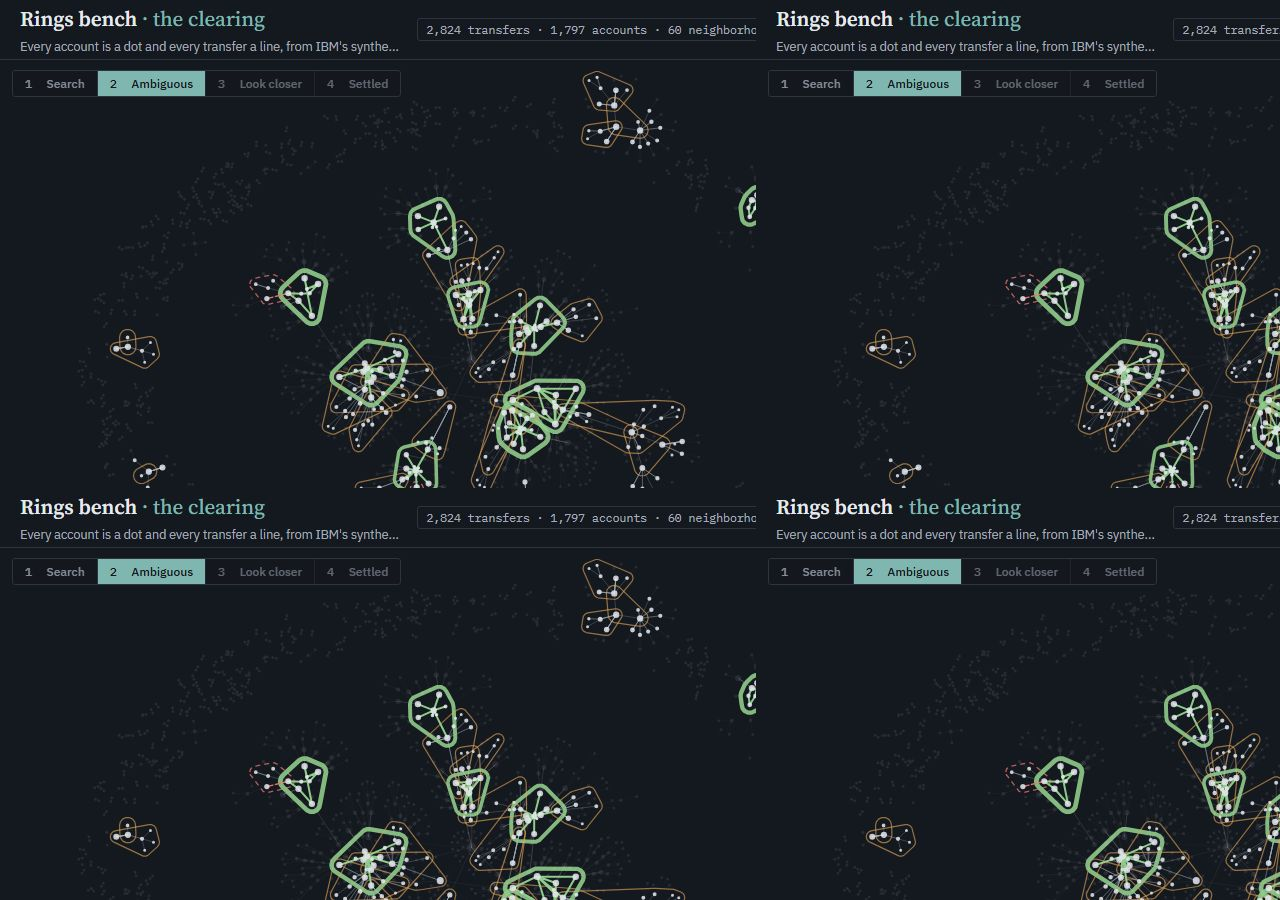
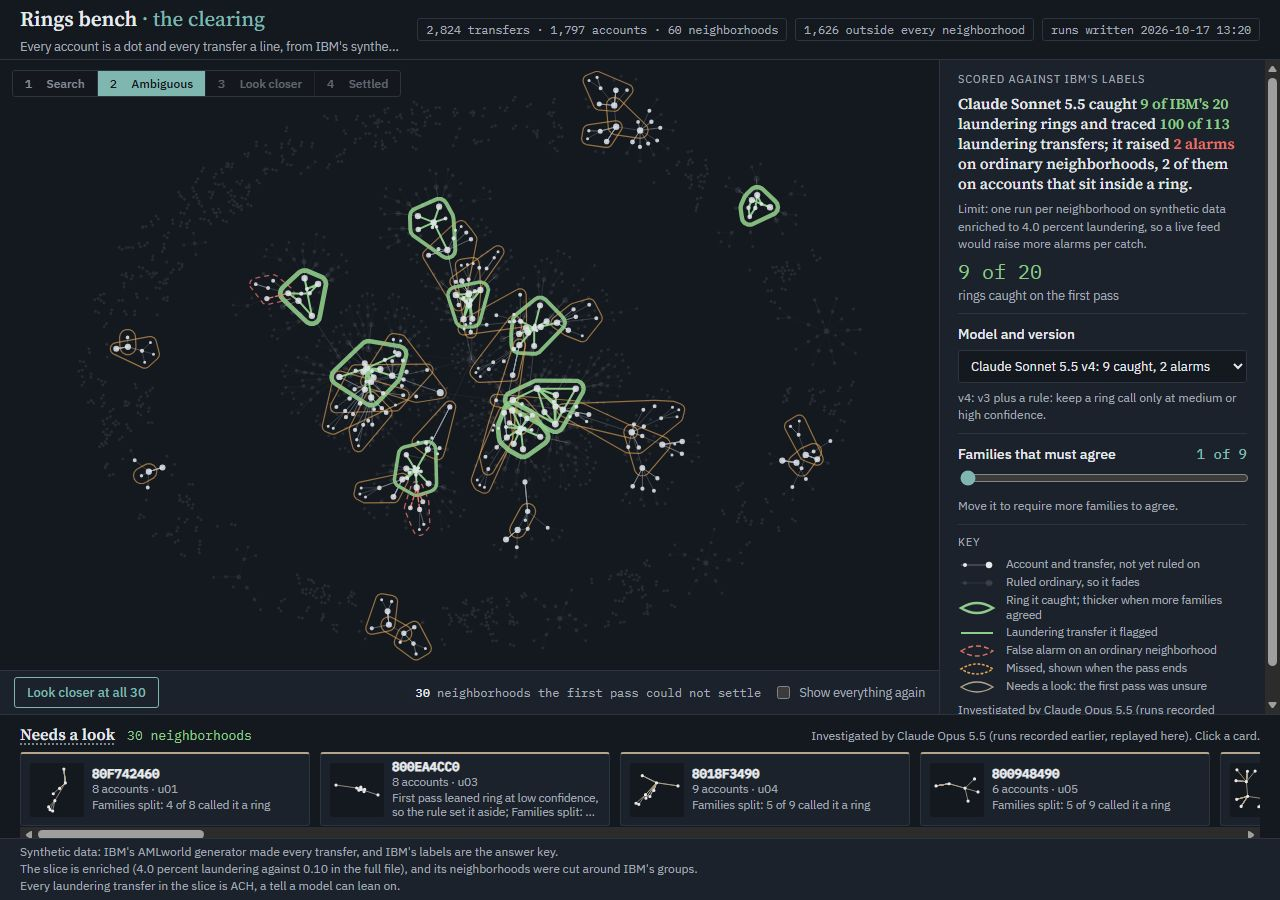
Look closer at all 30 as a lens moment; Before/After toggle with tally

diff --git a/rings_bench/ui/variants/clearing2d/clearing.js b/rings_bench/ui/variants/clearing2d/clearing.js
@@ -22,6 +22,7 @@ function seeded(seed) { let s = seed >>> 0; return () => (s = (s * 1664525 + 101
 
 /* timings, ms: each one is what the README lists */
 const HOLD = 700, FADE = 400, STEP = 60, DWELL = 150, CATCH_MS = 450, GAP = 250, REVEAL_MS = 600, ALARM_MS = 200;
+const HOP_MS = 220, HOLD_MS = 180, VERDICT_GAP = 200, SNAP_MS = 350, SHRINK_MS = 300, XFADE_MS = 250;
 const DIM = 0.08; const SWEEP_MS = 260, LOOK_MS = 300, LOOK_GAP = 50; /* a cleared account ends at 8 percent opacity */
 
 /* ---------- data, or a labeled SAMPLE ---------- */
@@ -106,7 +107,7 @@ const panelVer = v => PA.versions[v] ? v : PA.versions.v2 ? 'v2' : Object.keys(P
 function agreement(ver, unitId) { const pv = panelVer(ver); if (!pv) return null; const a = (PA.versions[pv].agreement || []).find(x => x.unit === unitId); return a ? Object.assign({ pv }, a) : null; }
 
 /* ---------- the sequence for one model: a timetable, then every frame is read off it ---------- */
-const ST = { stage: 0, missedAt: null, dial: 1, dialOn: false, sel: null, t: 0, END: 1, playing: false, showAll: false, hover: null, lastT: 0 };
+const ST = { before: false, lens: null, xfade: null, stage: 0, missedAt: null, dial: 1, dialOn: false, sel: null, t: 0, END: 1, playing: false, showAll: false, hover: null, lastT: 0 };
 let TL = null;
 /* the "Needs a look" tray: recorded for one first pass (Claude Sonnet 5.5 v4); the investigation verdicts are replayed from investigate.js */
 const TRAY_STUB = [{"unit":"u01","expected":"ordinary","shape":null,"first_pass_verdict":"ordinary","first_pass_confidence":"medium","ring_votes":4,"families":8,"reasons":["families split: 4 of 8 called it a ring"]},{"unit":"u03","expected":"ordinary","shape":null,"first_pass_verdict":"ring","first_pass_confidence":"low","ring_votes":6,"families":9,"reasons":["first pass called it a ring at low confidence","families split: 6 of 9 called it a ring"]},{"unit":"u04","expected":"ordinary","shape":null,"first_pass_verdict":"ordinary","first_pass_confidence":"medium","ring_votes":5,"families":9,"reasons":["families split: 5 of 9 called it a ring"]},{"unit":"u05","expected":"ordinary","shape":null,"first_pass_verdict":"ordinary","first_pass_confidence":"low","ring_votes":5,"families":9,"reasons":["families split: 5 of 9 called it a ring"]},{"unit":"u08","expected":"ring","shape":"chain","first_pass_verdict":"ordinary","first_pass_confidence":"medium","ring_votes":5,"families":8,"reasons":["families split: 5 of 8 called it a ring"]},{"unit":"u12","expected":"ordinary","shape":null,"first_pass_verdict":"ordinary","first_pass_confidence":"medium","ring_votes":3,"families":9,"reasons":["families split: 3 of 9 called it a ring"]},{"unit":"u13","expected":"ordinary","shape":null,"first_pass_verdict":"ring","first_pass_confidence":"low","ring_votes":8,"families":9,"reasons":["first pass called it a ring at low confidence"]},{"unit":"u14","expected":"ring","shape":"other","first_pass_verdict":"ordinary","first_pass_confidence":"medium","ring_votes":3,"families":8,"reasons":["families split: 3 of 8 called it a ring"]},{"unit":"u16","expected":"ordinary","shape":null,"first_pass_verdict":"ordinary","first_pass_confidence":"medium","ring_votes":3,"families":9,"reasons":["families split: 3 of 9 called it a ring"]},{"unit":"u17","expected":"ordinary","shape":null,"first_pass_verdict":"ordinary","first_pass_confidence":"low","ring_votes":5,"families":9,"reasons":["families split: 5 of 9 called it a ring"]},{"unit":"u18","expected":"ordinary","shape":null,"first_pass_verdict":"ordinary","first_pass_confidence":"low","ring_votes":3,"families":9,"reasons":["families split: 3 of 9 called it a ring"]},{"unit":"u19","expected":"ring","shape":"lone","first_pass_verdict":"ring","first_pass_confidence":"low","ring_votes":3,"families":9,"reasons":["first pass called it a ring at low confidence","families split: 3 of 9 called it a ring"]},{"unit":"u20","expected":"ring","shape":"lone","first_pass_verdict":"ordinary","first_pass_confidence":"low","ring_votes":6,"families":9,"reasons":["families split: 6 of 9 called it a ring"]},{"unit":"u21","expected":"ordinary","shape":null,"first_pass_verdict":"ordinary","first_pass_confidence":"medium","ring_votes":4,"families":9,"reasons":["families split: 4 of 9 called it a ring"]},{"unit":"u23","expected":"ordinary","shape":null,"first_pass_verdict":"ordinary","first_pass_confidence":"medium","ring_votes":3,"families":9,"reasons":["families split: 3 of 9 called it a ring"]},{"unit":"u24","expected":"ordinary","shape":null,"first_pass_verdict":"ordinary","first_pass_confidence":"medium","ring_votes":3,"families":9,"reasons":["families split: 3 of 9 called it a ring"]},{"unit":"u25","expected":"ordinary","shape":null,"first_pass_verdict":"ordinary","first_pass_confidence":"low","ring_votes":4,"families":9,"reasons":["families split: 4 of 9 called it a ring"]},{"unit":"u28","expected":"ring","shape":"lone","first_pass_verdict":"ordinary","first_pass_confidence":"low","ring_votes":6,"families":9,"reasons":["families split: 6 of 9 called it a ring"]},{"unit":"u33","expected":"ring","shape":"chain","first_pass_verdict":"ordinary","first_pass_confidence":"low","ring_votes":5,"families":9,"reasons":["families split: 5 of 9 called it a ring"]},{"unit":"u36","expected":"ordinary","shape":null,"first_pass_verdict":"ordinary","first_pass_confidence":"low","ring_votes":5,"families":8,"reasons":["families split: 5 of 8 called it a ring"]},{"unit":"u37","expected":"ring","shape":"lone","first_pass_verdict":"ordinary","first_pass_confidence":"low","ring_votes":6,"families":9,"reasons":["families split: 6 of 9 called it a ring"]},{"unit":"u38","expected":"ordinary","shape":null,"first_pass_verdict":"ordinary","first_pass_confidence":"medium","ring_votes":3,"families":8,"reasons":["families split: 3 of 8 called it a ring"]},{"unit":"u40","expected":"ordinary","shape":null,"first_pass_verdict":"ordinary","first_pass_confidence":"medium","ring_votes":5,"families":9,"reasons":["families split: 5 of 9 called it a ring"]},{"unit":"u41","expected":"ordinary","shape":null,"first_pass_verdict":"ring","first_pass_confidence":"low","ring_votes":5,"families":9,"reasons":["first pass called it a ring at low confidence","families split: 5 of 9 called it a ring"]},{"unit":"u45","expected":"ordinary","shape":null,"first_pass_verdict":"ordinary","first_pass_confidence":"medium","ring_votes":3,"families":9,"reasons":["families split: 3 of 9 called it a ring"]},{"unit":"u52","expected":"ordinary","shape":null,"first_pass_verdict":"ordinary","first_pass_confidence":"medium","ring_votes":5,"families":9,"reasons":["families split: 5 of 9 called it a ring"]},{"unit":"u54","expected":"ordinary","shape":null,"first_pass_verdict":"ordinary","first_pass_confidence":"medium","ring_votes":5,"families":9,"reasons":["families split: 5 of 9 called it a ring"]},{"unit":"u55","expected":"ordinary","shape":null,"first_pass_verdict":"ordinary","first_pass_confidence":"low","ring_votes":4,"families":9,"reasons":["families split: 4 of 9 called it a ring"]},{"unit":"u58","expected":"ordinary","shape":null,"first_pass_verdict":"ordinary","first_pass_confidence":"low","ring_votes":6,"families":9,"reasons":["families split: 6 of 9 called it a ring"]},{"unit":"u59","expected":"ordinary","shape":null,"first_pass_verdict":"ordinary","first_pass_confidence":"medium","ring_votes":3,"families":9,"reasons":["families split: 3 of 9 called it a ring"]}];
@@ -118,7 +119,7 @@ const trayApplies = S => !!S && /claude-sonnet-5-5$/.test(S.id) && S.ver === 'v4
 const INV = {}; /* unit -> { start, land } in wall-clock ms; the verdict is INVD.results[unit] */
 const INVESTIGATE_MS = 1200;
 const invRes = id => INVD && INVD.results ? INVD.results[id] || null : null;
-const landed = (id, now) => INV[id] && now >= INV[id].land;
+const landed = (id, now) => !ST.before && INV[id] && now >= INV[id].land;
 function buildTimeline(S) {
   const read = [], status = []; let t = HOLD + FADE; const useTray = trayApplies(S);
   UNITS.forEach((u, k) => {
@@ -169,7 +170,9 @@ function fit() {
   UNITS.forEach((u, k) => {
     const ns = u.ring != null && RINGS[u.ring] ? RINGS[u.ring].nodes : u.accounts; if (!ns.length) return;
     const hullP = padHull(ns, u.ring != null ? 8 : 6);
-    GROUPS.push({ k, u, ring: u.ring, ns, hull: hullP, area: polyArea(hullP) });
+    let cx = 0, cy = 0; ns.forEach(v => { cx += nodes[v].sx; cy += nodes[v].sy; }); cx /= ns.length; cy /= ns.length;
+    let rad = 0; hullP.forEach(q => { rad = Math.max(rad, Math.hypot(q[0] - cx, q[1] - cy)); });
+    GROUPS.push({ k, u, ring: u.ring, ns, hull: hullP, area: polyArea(hullP), cx, cy, rad });
   });
 }
 function hull(pts) {
@@ -191,7 +194,7 @@ const nodeA = new Float32Array(nodes.length); const LIT = new Float32Array(TR.le
 function draw() {
   const t = ST.t, T = TL, all = ST.showAll; const now = performance.now();
   /* a tray neighborhood lets its traffic fade only once the investigation clears it; a ring verdict holds it lit */
-  const invRel = id => { if (!landed(id, now)) return Infinity; const r = invRes(id); if (!r) return Infinity; if (r.verdict === 'ring') return truthy(r.ring_found) ? INV[id].land + CATCH_MS : Infinity; return INV[id].land; };
+  const invRel = id => { if (!landed(id, now)) return Infinity; const r = invRes(id); if (!r) return Infinity; if (r.verdict === 'ring') return truthy(r.ring_found) ? INV[id].land + SNAP_MS : Infinity; return INV[id].land; };
   ctx.setTransform(G.dpr, 0, 0, G.dpr, 0, 0); ctx.fillStyle = C.ground; ctx.fillRect(0, 0, G.W, G.H);
   if (!T) return;
   nodeA.fill(0);
@@ -204,14 +207,14 @@ function draw() {
     if (T.lookOf[i]) {
       const d0 = T.dimNoLook[i]; const litT = t < d0 ? 1 : 1 - ease((t - d0) / FADE);
       let rel = -Infinity; T.lookOf[i].forEach(k => { rel = Math.max(rel, invRel(UNITS[k].id)); });
-      const litL = isFinite(rel) ? 1 - ease((now - rel) / FADE) : 1; lit = Math.max(litT, litL);
+      const litL = isFinite(rel) ? 1 - ease((now - rel) / SHRINK_MS) : 1; lit = Math.max(litT, litL);
       T.lookOf[i].forEach(k => { const id = UNITS[k].id; const r = invRes(id); if (!r || !landed(id, now)) return; const fl = listOf(r.flagged_in_unit);
         if (x.label && UNITS[k].ring === x.ring) { s = truthy(r.ring_found) && fl.includes(x.id) ? 'ok' : 'miss'; sT = INV[id].land; wall = true; }
         else if (!x.label && r.verdict === 'ring' && UNITS[k].expected !== 'ring' && fl.includes(x.id)) { s = 'bad'; sT = INV[id].land; wall = true; } });
     }
     if (all) lit = 1; LIT[i] = lit;
     let sa = 0; const tt = wall ? now : t;
-    if (wall) { if (s === 'ok') sa = tt >= sT + CATCH_MS ? 1 : 0; else sa = s === 'miss' ? (ST.missedAt != null ? ease((now - Math.max(sT, ST.missedAt)) / REVEAL_MS) : 0) : ease((tt - sT) / ALARM_MS); }
+    if (wall) { if (s === 'ok') sa = tt >= sT + SNAP_MS ? 1 : 0; else sa = s === 'miss' ? (ST.missedAt != null ? ease((now - Math.max(sT, ST.missedAt)) / REVEAL_MS) : 0) : ease((tt - sT) / ALARM_MS); }
     else
     if (s && sT === Infinity) sa = ST.missedAt != null ? ease((now - ST.missedAt) / REVEAL_MS) : 0;
     else if (s && t >= sT) sa = s === 'miss' ? ease((t - sT) / REVEAL_MS) : s === 'bad' ? ease((t - sT) / ALARM_MS) : 1;
@@ -232,15 +235,16 @@ function draw() {
     if (st === 'look') {
       const id = g.u.id; const r = invRes(id);
       if (r && landed(id, now)) {
-        const p = clamp01((now - INV[id].land) / CATCH_MS);
-        if (r.verdict === 'ring' && truthy(r.ring_found)) { const e = all ? 1 : easeOut(p); pathPoly(g.hull); ctx.setLineDash([]); ctx.strokeStyle = C.ok; ctx.globalAlpha = 0.25 + 0.65 * e; ctx.lineWidth = wOf(votes) + 3 * (1 - e); ctx.stroke(); }
+        const p = clamp01((now - INV[id].land) / SNAP_MS);
+        if (r.verdict === 'ring' && truthy(r.ring_found)) { const e = all ? 1 : easeOut(p); pathPoly(g.hull); ctx.setLineDash([]); ctx.strokeStyle = C.ok; ctx.globalAlpha = 0.25 + 0.65 * e; ctx.lineWidth = wOf(votes) + 3 * (1 - e); ctx.stroke();
+          if (!all && p < 1) { ctx.strokeStyle = C.ink; ctx.globalAlpha = 0.9 * (1 - p); ctx.lineWidth = wOf(votes) + 4 * (1 - p); ctx.stroke(); } /* the snap: a brief bright flash as the outline closes */ }
         else if (r.verdict === 'ring' && g.ring == null) { pathPoly(g.hull); ctx.setLineDash([5, 4]); ctx.strokeStyle = C.bad; ctx.globalAlpha = 0.8 * ease(p); ctx.lineWidth = 1.3; ctx.stroke(); }
-        else if (g.ring != null) { const m = all ? 1 : ST.missedAt != null ? ease((now - Math.max(INV[id].land, ST.missedAt)) / REVEAL_MS) : 0; if (m > 0) { pathPoly(g.hull); ctx.setLineDash([1.5, 3.5]); ctx.lineCap = 'round'; ctx.strokeStyle = C.warn; ctx.globalAlpha = 0.9 * m; ctx.lineWidth = 1.5; ctx.stroke(); ctx.lineCap = 'butt'; } }
-        else { pathPoly(g.hull); ctx.setLineDash([]); ctx.strokeStyle = C.look; ctx.globalAlpha = 0.85 * (1 - ease(p)); ctx.lineWidth = 1.4; ctx.stroke(); }
+        else if (g.ring != null) { shrinkOut(g, id, now); const m = all ? 1 : ST.missedAt != null ? ease((now - Math.max(INV[id].land, ST.missedAt)) / REVEAL_MS) : 0; if (m > 0) { pathPoly(g.hull); ctx.setLineDash([1.5, 3.5]); ctx.lineCap = 'round'; ctx.strokeStyle = C.warn; ctx.globalAlpha = 0.9 * m; ctx.lineWidth = 1.5; ctx.stroke(); ctx.lineCap = 'butt'; } }
+        else shrinkOut(g, id, now);
         return;
       }
       const p = all ? 1 : ease((t - rd) / ALARM_MS); if (p <= 0) return;
-      pathPoly(g.hull); ctx.setLineDash([]); const pulse = ST.stage === 2 && !reduced() ? 0.55 + 0.45 * Math.sin(now / 520) : 0; ctx.strokeStyle = pulse ? C.warn : C.look; ctx.globalAlpha = (INV[id] ? 1 : 0.6 + 0.35 * pulse) * p; ctx.lineWidth = INV[id] ? 2 : 1.1 + 0.9 * pulse; ctx.stroke();
+      pathPoly(g.hull); ctx.setLineDash([]); const pulse = (ST.stage === 2 || ST.before) && !reduced() ? 0.55 + 0.45 * Math.sin(now / 520) : 0; ctx.strokeStyle = pulse ? C.warn : C.look; const busy = INV[id] && !ST.before; ctx.globalAlpha = (busy ? 1 : 0.6 + 0.35 * pulse) * p; ctx.lineWidth = busy ? 2 : 1.1 + 0.9 * pulse; ctx.stroke();
     } else if (g.ring != null && st === 'caught') {
       const p = all ? 1 : clamp01((t - rd) / CATCH_MS); if (p <= 0) return;
       const e = easeOut(p); pathPoly(g.hull); ctx.setLineDash([]); ctx.strokeStyle = C.ok; ctx.globalAlpha = 0.25 + 0.65 * e; ctx.lineWidth = wOf(votes) + 3 * (1 - e); ctx.stroke();
@@ -270,7 +274,7 @@ function draw() {
   });
   /* an investigation that lands on a ring traces it the same way, on the wall clock */
   Object.keys(INV).forEach(id => { const r = invRes(id); const k = UNITS.findIndex(u => u.id === id); if (!r || k < 0 || !truthy(r.ring_found) || all) return;
-    const p = (now - INV[id].land) / CATCH_MS; if (p < 0 || p >= 1) return; const q = easeOut(p); const fl = listOf(r.flagged_in_unit); const ring = UNITS[k].ring; if (ring == null) return;
+    if (ST.before) return; const p = (now - INV[id].land) / SNAP_MS; if (p < 0 || p >= 1) return; const q = easeOut(p); const fl = listOf(r.flagged_in_unit); const ring = UNITS[k].ring; if (ring == null) return;
     ctx.beginPath(); RINGS[ring].ids.forEach(tid => { const x = BYID[tid]; if (x.u === x.v || !fl.includes(tid)) return; const a = nodes[x.u], b = nodes[x.v]; ctx.moveTo(a.sx, a.sy); ctx.lineTo(a.sx + (b.sx - a.sx) * q, a.sy + (b.sy - a.sy) * q); }); ctx.stroke();
     RINGS[ring].nodes.forEach(v => { nodeA[v] = 1; }); });
   ctx.lineCap = 'butt'; ctx.globalAlpha = 1;
@@ -280,7 +284,28 @@ function draw() {
   ctx.fillStyle = C.ink; nb.forEach((L, a) => { ctx.globalAlpha = a * 0.85; ctx.beginPath(); L.forEach(i => { const n = nodes[i]; ctx.moveTo(n.sx + n.r, n.sy); ctx.arc(n.sx, n.sy, n.r, 0, Math.PI * 2); }); ctx.fill(); });
   ctx.globalAlpha = 1;
 
+  const L = lensAt(now);
+  if (L) { ctx.beginPath(); ctx.arc(L.x, L.y, L.r, 0, Math.PI * 2); ctx.fillStyle = C.ink; ctx.globalAlpha = 0.07 * L.a; ctx.fill(); ctx.strokeStyle = C.accent; ctx.globalAlpha = 0.9 * L.a; ctx.lineWidth = 1.2; ctx.setLineDash([]); ctx.stroke(); ctx.globalAlpha = 1; }
+  if (ST.xfade) { const p = (now - ST.xfade.t0) / XFADE_MS; if (p >= 1) ST.xfade = null; else { ctx.globalAlpha = 1 - ease(p); ctx.drawImage(ST.xfade.img, 0, 0, G.W, G.H); ctx.globalAlpha = 1; } }
   if (ST.hover) { pathPoly(ST.hover.hull); ctx.strokeStyle = C.ink; ctx.globalAlpha = 0.9; ctx.lineWidth = 1; ctx.setLineDash([]); ctx.stroke(); ctx.globalAlpha = 1; }
+}
+
+/* a cleared neighborhood: its outline shrinks inward as it fades */
+function shrinkOut(g, id, now) {
+  const p = clamp01((now - INV[id].land) / SHRINK_MS); if (p >= 1) return; const e = easeOut(p); const k = 1 - 0.45 * e;
+  ctx.save(); ctx.translate(g.cx, g.cy); ctx.scale(k, k); ctx.translate(-g.cx, -g.cy); pathPoly(g.hull); ctx.restore();
+  ctx.setLineDash([]); ctx.strokeStyle = C.look; ctx.globalAlpha = 0.9 * (1 - e); ctx.lineWidth = 1.6; ctx.stroke();
+}
+/* the lens: a soft circle that glides from one tray neighborhood to the next */
+function lensAt(now) {
+  const L = ST.lens; if (!L || ST.before) return null;
+  const p = ease((now - L.t0) / HOP_MS); const a = L.out != null ? 1 - clamp01((now - L.out) / 250) : 1; if (a <= 0) { ST.lens = null; return null; }
+  return { x: L.x0 + (L.x1 - L.x0) * p, y: L.y0 + (L.y1 - L.y0) * p, r: L.r0 + (L.r1 - L.r0) * p, a };
+}
+function moveLens(k) {
+  const g = GROUPS.find(gg => gg.k === k); if (!g) return; const now = performance.now(); const c = lensAt(now);
+  const r1 = Math.max(16, Math.min(g.rad + 8, 160));
+  ST.lens = c ? { x0: c.x, y0: c.y, r0: c.r, x1: g.cx, y1: g.cy, r1, t0: now } : { x0: g.cx, y0: g.cy, r0: r1 * 1.4, x1: g.cx, y1: g.cy, r1, t0: now };
 }
 
 /* ---------- the four stages: Search, Ambiguous, Look closer, Settled; the button always names the next one ---------- */
@@ -291,7 +316,7 @@ function setT(t, fromPlay) {
   ST.t = Math.max(0, Math.min(ST.END, t)); timeEl.value = Math.round(ST.t / ST.END * 1000);
   renderClock(); syncTray(fromPlay); draw();
 }
-function pulseLoop() { pulseRaf = 0; if (ST.stage !== 2 || reduced()) return; draw(); pulseRaf = requestAnimationFrame(pulseLoop); }
+function pulseLoop() { pulseRaf = 0; if ((ST.stage !== 2 && !ST.before) || reduced()) return; draw(); pulseRaf = requestAnimationFrame(pulseLoop); }
 function setStage(n) {
   ST.stage = n; timeEl.style.visibility = n >= 2 ? 'hidden' : '';
   document.querySelectorAll('#stages li').forEach((li, i) => { li.classList.toggle('on', i + 1 === n); li.classList.toggle('done', i + 1 < n); });
@@ -302,7 +327,7 @@ function renderButton() {
   const n = ST.stage; playBtn.disabled = false;
   if (n === 0) playBtn.textContent = 'Start the search';
   else if (n === 1) playBtn.textContent = ST.playing ? 'Skip to the end of the search' : 'Continue the search';
-  else if (n === 2) { playBtn.textContent = 'Look closer'; playBtn.disabled = !trayApplies(ST.sel) || !CARDS.size; }
+  else if (n === 2) { playBtn.textContent = 'Look closer at all ' + CARDS.size; playBtn.disabled = !trayApplies(ST.sel) || !CARDS.size; }
   else if (n === 3) { playBtn.textContent = trayDone() ? 'Settle' : 'Investigating...'; playBtn.disabled = !trayDone(); }
   else playBtn.textContent = ST.missedAt == null ? 'Show what was missed' : 'Start over';
 }
@@ -315,7 +340,7 @@ function startSearch() {
   if (reduced()) { setT(ST.END); stopPlay(); setStage(2); return; }
   ST.playing = true; last = performance.now(); renderButton(); raf = requestAnimationFrame(tick);
 }
-function resetLater() { lookRun++; Object.keys(INV).forEach(k => delete INV[k]); ST.missedAt = null; CARDS.forEach((el, k) => cardState(el, k)); }
+function resetLater() { setView(false, true); ST.lens = null; lookRun++; Object.keys(INV).forEach(k => delete INV[k]); ST.missedAt = null; CARDS.forEach((el, k) => cardState(el, k)); }
 function showMissed() { ST.missedAt = performance.now(); CARDS.forEach((el, k) => cardState(el, k)); animate(REVEAL_MS + 100); renderButton(); renderClock(); }
 playBtn.addEventListener('click', () => {
   const n = ST.stage;
@@ -334,7 +359,7 @@ function jumpTo(n) {
   setT(ST.END); const past = performance.now() - 10000;
   CARDS.forEach((el, k) => { INV[UNITS[k].id] = { start: past, land: past }; });
   ST.missedAt = n >= 4 ? past : null; CARDS.forEach((el, k) => cardState(el, k)); renderTrayHead();
-  setStage(n >= 4 ? 4 : 3); if (n === 3) { ST.stage = 3; renderButton(); }
+  setStage(n >= 4 ? 4 : 3); if (n === 3) { ST.stage = 3; renderButton(); } renderTrayHead();
 }
 document.querySelectorAll('#stages li').forEach((li, i) => { li.addEventListener('click', () => jumpTo(i + 1)); li.addEventListener('keydown', e => { if (e.key === 'Enter' || e.key === ' ') { e.preventDefault(); jumpTo(i + 1); } }); });
 timeEl.addEventListener('input', () => { stopPlay(); if (ST.stage !== 1) { resetLater(); setStage(1); } setT(+timeEl.value / 1000 * ST.END); if (ST.t >= ST.END) setStage(2); });
@@ -346,6 +371,7 @@ function renderClock() {
   let html;
   if (ST.stage === 0) html = 'The whole slice, lit · <b>' + UNITS.length + '</b> neighborhoods to read';
   else if (ST.stage === 1) html = (ST.t < HOLD + FADE ? 'Transfers outside the neighborhoods step back' : 'Reading ' + esc((UNITS[Math.max(0, readN - 1)] || {}).id)) + ' · read <b>' + readN + ' of ' + UNITS.length + '</b>';
+  else if (ST.before) html = '<b>Before</b> · <b>' + lookN + '</b> neighborhoods the first pass could not settle';
   else if (ST.stage === 2) html = trayApplies(ST.sel) ? '<b>' + lookN + '</b> neighborhoods the first pass could not settle' : 'The tray is recorded for Claude Sonnet 5.5 v4 only';
   else if (ST.stage === 3) html = 'Investigated <b>' + inv + ' of ' + lookN + '</b>';
   else html = closingLine();
@@ -404,7 +430,7 @@ function fly(k, card) {
 }
 function reasonLine(x) { return (x.reasons || []).map(r => sentence(noDash(r))).join('; '); }
 function cardState(el, k) {
-  const u = UNITS[k]; const x = TRAY_OF[u.id]; const now = performance.now(); const r = invRes(u.id); const inv = INV[u.id];
+  const u = UNITS[k]; const x = TRAY_OF[u.id]; const now = performance.now(); const r = invRes(u.id); const inv = ST.before ? null : INV[u.id];
   const head = el.querySelector('h3'), body = el.querySelector('.why');
   el.classList.remove('busy', 'ring', 'cleared', 'alarm', 'missed');
   if (!inv) { head.innerHTML = '<span class="mono">' + esc(u.seed || u.id) + '</span>'; body.textContent = reasonLine(x); body.title = body.textContent; return; }
@@ -420,23 +446,26 @@ function cardState(el, k) {
 let animUntil = 0, animRaf = 0;
 function animate(ms) { animUntil = Math.max(animUntil, performance.now() + ms); if (!animRaf) animRaf = requestAnimationFrame(animStep); }
 function animStep() { animRaf = 0; draw(); renderClock(); if (performance.now() < animUntil) animRaf = requestAnimationFrame(animStep); }
-function investigate(k, ms) {
+function investigate(k, ms, lens) {
   const id = UNITS[k].id; if (INV[id]) return Promise.resolve();
+  if (lens && !reduced()) moveLens(k);
   const busy = reduced() ? 1 : ms || INVESTIGATE_MS; const start = performance.now();
   if (ST.stage < 3) setStage(3);
   INV[id] = { start, land: start + busy }; const el = CARDS.get(k); if (el) { el.style.setProperty('--sweep', busy + 'ms'); cardState(el, k); el.scrollIntoView({ block: 'nearest', inline: 'nearest' }); }
-  animate(busy + Math.max(CATCH_MS, FADE, REVEAL_MS) + 100);
+  animate(busy + Math.max(SNAP_MS, SHRINK_MS, REVEAL_MS) + 100);
   return new Promise(res => setTimeout(() => { const e = CARDS.get(k); if (e) cardState(e, k); renderTrayHead(); draw(); renderClock(); checkSettled(); setTimeout(() => { draw(); renderClock(); }, Math.max(CATCH_MS, FADE, REVEAL_MS) + 40); res(); }, busy + 10));
 }
 let lookRun = 0;
 async function lookCloser() {
   const run = ++lookRun; setStage(3);
   const ks = [...CARDS.keys()].sort((x, y) => x - y).filter(k => !INV[UNITS[k].id]);
-  for (let i = 0; i < ks.length; i++) { if (run !== lookRun) return; if (i) await new Promise(r => setTimeout(r, LOOK_GAP)); if (CARDS.has(ks[i])) await investigate(ks[i], LOOK_MS); }
+  if (reduced()) { jumpTo(4); return; }
+  for (let i = 0; i < ks.length; i++) { if (run !== lookRun) return; if (i) await new Promise(r => setTimeout(r, VERDICT_GAP)); if (CARDS.has(ks[i])) await investigate(ks[i], HOP_MS + HOLD_MS, true); }
+  if (ST.lens) { ST.lens.out = performance.now(); animate(300); }
   checkSettled();
 }
 function trayDone() { const ks = [...CARDS.keys()]; return ks.length > 0 && ks.every(k => landed(UNITS[k].id, performance.now())); }
-function checkSettled() { if (ST.stage === 3 && trayDone()) setStage(4); }
+function checkSettled() { if (ST.stage === 3 && trayDone()) { setStage(4); renderTrayHead(); } }
 function buildCard(k, pending) {
   const u = UNITS[k]; const x = TRAY_OF[u.id];
   const el = document.createElement('article'); el.className = 'card' + (pending ? ' pending' : ''); el.dataset.k = k; el.tabIndex = 0; el.setAttribute('role', 'button');
@@ -449,6 +478,27 @@ function buildCard(k, pending) {
   el.addEventListener('mouseleave', () => { ST.hover = null; draw(); });
   return el;
 }
+/* before and after the investigator: one toggle above the tray, one tally line from the data */
+const BA = document.createElement('div'); BA.className = 'ba'; BA.hidden = true;
+BA.innerHTML = '<div class="seg" role="group" aria-label="Before or after the investigator"><button type="button" data-v="before">Before</button><button type="button" data-v="after" class="on">After</button></div><span class="tally"></span>';
+document.querySelector('.rhead').append(BA);
+BA.querySelectorAll('button').forEach(b => b.addEventListener('click', () => setView(b.dataset.v === 'before')));
+function setView(before, silent) {
+  if (ST.before === before) return;
+  if (!silent && !reduced()) { const img = document.createElement('canvas'); img.width = cv.width; img.height = cv.height; img.getContext('2d').drawImage(cv, 0, 0); ST.xfade = { img, t0: performance.now() }; }
+  ST.before = before;
+  if (before) { ST.savedMissed = ST.missedAt; ST.missedAt = null; } else if (ST.savedMissed !== undefined) { ST.missedAt = ST.savedMissed; ST.savedMissed = undefined; }
+  BA.querySelectorAll('button').forEach(b => { const on = (b.dataset.v === 'before') === before; b.classList.toggle('on', on); b.setAttribute('aria-pressed', on); });
+  CARDS.forEach((el, k) => cardState(el, k)); renderClock();
+  if (before && !pulseRaf) pulseRaf = requestAnimationFrame(pulseLoop);
+  if (!silent) { animate(XFADE_MS + 40); renderTrayHead(); }
+}
+function tallyLine() {
+  const s = ST.sel; const R = TRAY.map(x => Object.assign({ expected: x.expected }, (INVD && INVD.results && INVD.results[x.unit]) || {}));
+  const cl = R.filter(r => r.verdict === 'ordinary' && r.expected !== 'ring').length, found = R.filter(r => truthy(r.ring_found)).length, fa = R.filter(r => r.verdict === 'ring' && r.expected !== 'ring').length;
+  const trayMiss = R.filter(r => r.expected === 'ring' && !truthy(r.ring_found)).length; const after = s.k + found;
+  return 'Before: ' + s.k + ' rings caught, ' + R.length + ' neighborhoods unsettled. After: ' + after + ' rings caught, ' + cl + ' cleared, ' + fa + ' false ' + (fa === 1 ? 'alarm' : 'alarms') + ' from the investigator, ' + (NR - after) + ' rings still missed (' + trayMiss + ' of them in the tray).';
+}
 function renderTrayHead() {
   const n = CARDS.size, done = [...CARDS.keys()].filter(k => landed(UNITS[k].id, performance.now())).length;
   $('#rcount').textContent = trayApplies(ST.sel) ? n + (n === 1 ? ' neighborhood' : ' neighborhoods') + (done ? ' · ' + done + ' investigated' : '') : '';
@@ -460,6 +510,9 @@ function renderTrayHead() {
     const cl = R.filter(r => r.verdict === 'ordinary' && r.expected !== 'ring').length, found = R.filter(r => truthy(r.ring_found)).length, fa = R.filter(r => r.verdict === 'ring' && r.expected !== 'ring').length;
     note = 'Investigator: ' + R.length + ' looked at, ' + cl + ' cleared, ' + found + (found === 1 ? ' ring' : ' rings') + ' found, ' + fa + (fa === 1 ? ' false alarm' : ' false alarms');
   } else note = 'Investigated by ' + INV_MODEL + ' (runs recorded earlier, replayed here). Click a card.';
+  const showBA = ST.stage === 4 && trayApplies(ST.sel) && !!INVD && (ST.before || trayDone());
+  BA.hidden = !showBA; $('#rnote').hidden = showBA; $('#rcount').hidden = showBA;
+  if (showBA) { const tl = BA.querySelector('.tally'); tl.textContent = tallyLine(); tl.title = tl.textContent; }
   $('#rnote').textContent = note;
 }
 function syncTray(live) {
@@ -572,6 +625,8 @@ function init() {
   ST.t = 0; ST.stage = 0; select(pick.id, pick.version);
   if (q.get('stage') != null) jumpTo(Math.max(0, Math.min(4, +q.get('stage') || 0)));
   else if (q.get('t') != null) { setStage(1); setT(clamp01(+q.get('t')) * ST.END); if (ST.t >= ST.END) setStage(2); }
+  if (q.get('missed') === '0' && ST.stage === 4) { ST.missedAt = null; CARDS.forEach((el, k) => cardState(el, k)); renderButton(); renderClock(); draw(); }
+  if (q.get('view') === 'before' && ST.stage === 4) setView(true, true);
   if (q.get('dial') != null) { ST.dial = +q.get('dial'); ST.dialOn = true; renderDial(); renderHeadline(); draw(); }
   if (q.get('all') === '1') { $('#all').checked = true; ST.showAll = true; syncTray(false); draw(); }
   if (q.get('play') === '1') startSearch();

diff --git a/rings_bench/ui/variants/clearing2d/clearing.css b/rings_bench/ui/variants/clearing2d/clearing.css
@@ -129,3 +129,14 @@ select { width: 100%; font: 13px var(--sans); color: var(--ink); background: var
 .ctlhead2 .val { color: var(--accent); }
 .ctl input[type=range] { width: 100%; }
 .card.busy .sweep { animation-duration: var(--sweep, 1.2s); }
+
+/* before and after */
+.ba { margin-left: auto; display: flex; align-items: center; gap: 10px; min-width: 0; }
+.ba[hidden] { display: none; }
+.ba .seg { display: inline-flex; border: 1px solid var(--rule); border-radius: 3px; overflow: hidden; flex: none; }
+.ba .seg button { font: 500 12px var(--sans); background: transparent; color: var(--muted); border: 0; padding: 3px 12px; cursor: pointer; }
+.ba .seg button + button { border-left: 1px solid var(--rule); }
+.ba .seg button.on { background: var(--accent); color: var(--ground); }
+.ba .tally { font-size: 11.5px; color: var(--muted); white-space: nowrap; overflow: hidden; text-overflow: ellipsis; min-width: 0; }
+.rhead h2, .rhead #rcount { flex: none; white-space: nowrap; }
+.scrub .btn { flex: none; }

diff --git a/rings_bench/ui/variants/clearing2d/README.md b/rings_bench/ui/variants/clearing2d/README.md
@@ -12,12 +12,14 @@ The whole slice starts lit, the real graph, and the first pass reads the 60 neig
 |---|---|---|---|
 | 1 Search | Start the search | Opening hold 700 ms, then a 400 ms fade of the 1,626 transfers outside every neighborhood. Then 60 ms per neighborhood (plus 150 ms on each catch). The neighborhood being read gets a bright outline for 120 ms. Ruled ordinary, it fades to 8 percent over 400 ms. A catch traces green in place and its outline closes (450 ms). A false alarm turns red dashed (200 ms). A tray neighborhood gets an amber-grey outline, and a copy of its sub-graph flies to its tray card (560 ms). Status: read N of 60. | About 6.4 s for Claude Sonnet 5.5 v4 |
 | 2 Ambiguous | Reached automatically when the search ends | Everything ruled ordinary is faded, caught rings are green, and the 30 unsettled neighborhoods pulse slowly in amber. Status: "30 neighborhoods the first pass could not settle". | Pulse period about 3.3 s |
-| 3 Look closer | Look closer (or click any one card) | The investigator works through the tray one card at a time. The card shows an "Investigating with Claude Opus 5.5" sweep. Then either the neighborhood fades and the card dims to "Cleared", or the ring traces green and closes and the card turns green: "Ring: <IBM shape>". The model's reason is on every card. Status: investigated N of 30. | 300 ms per card plus 50 ms gap (about 10.5 s). A single card click takes 1.2 s. |
+| 3 Look closer | Look closer at all 30 (one click), or click any one card | A soft lens (translucent circle, thin ring) glides to each tray neighborhood in turn (220 ms ease-in-out), holds on it (180 ms) while its card sweeps "Investigating with Claude Opus 5.5", then the verdict lands on graph and card at the same instant. Cleared: the outline shrinks inward and the neighborhood fades (300 ms) and the card dims to "Cleared". Ring: the laundering transfers trace green and the outline snaps closed with a brief bright flash (350 ms), and the card turns green: "Ring: <IBM shape>". Status: investigated N of 30. | 400 ms per card plus a 200 ms gap: about 18 s for 30. A single card click takes 1.2 s, without the lens. With reduced motion, the stage jumps to its end. |
 | 4 Settled | Reached when the tray is done | Only the green rings and the two red alarms stay lit. Show what was missed then brings in the missed rings and transfers in amber dotted. Each missed tray card gets a "missed" tag. Status and tray line give the closing numbers. | Missed reveal 600 ms |
 
 Each stage label is a button that jumps to the end of that stage, and `?stage=1..4` opens the page there (for screenshots). Other switches: `?model=moonshot/kimi-k3|v1`, `?dial=6`, `?all=1`, `?hover=u06`, `?play=1`. With prefers-reduced-motion, every stage lands at once, with no pulse and no flight.
 
 Closing numbers (computed from the files): the first pass (Claude Sonnet 5.5 v4) caught 9 of 20 rings, traced 100 of 113 laundering transfers and raised 2 alarms. The investigator (Claude Opus 5.5, v5 framing) looked at 30, cleared all 23 ordinary ones, found 2 rings (u19 and u28, lone transfers) and raised 0 false alarms. It ruled the other 5 tray rings ordinary, and they show as missed.
+
+Before and after: when the investigation finishes, a Before / After toggle appears above the tray (After selected). Before shows the Ambiguous state (30 pulsing, the tray as it was); After shows Settled. Flipping it crossfades the graph (250 ms). The tally line comes from the data: "Before: 9 rings caught, 30 neighborhoods unsettled. After: 11 rings caught, 23 cleared, 0 false alarms from the investigator, 9 rings still missed (5 of them in the tray)." `?stage=4&missed=0` opens on After before the misses are shown, and `&view=before` opens on Before.
 
 The families dial ("Families that must agree", 1 to 9) reads the v2 vote table in panel.js. While it is in use, the headline gives the panel's numbers at that dial, and neighborhoods with fewer votes lose their outline. The tray does not change. Picking a model hands the headline back to that model.
 
@@ -43,4 +45,4 @@ Green appears only where the model caught the ring (its own `ring_found`, never 
 
 ## Screenshots (headless Edge over the DevTools protocol, JPG at quality 80)
 
-`shots/open_1280.jpg` (stage 0, before the search), `shots/mid_1280.jpg` (mid-search), `shots/ambiguous_1280.jpg` (stage 2), `shots/end_1280.jpg` and `shots/end_1440.jpg` (stage 4, misses shown). No console errors at 1280 or 1440 by 900. Live flow checked: the search reached Ambiguous, Look closer ran the cards, and the tray line read "Investigator: 30 looked at, 23 cleared, 2 rings found, 0 false alarms".
+`shots/open_1280.jpg` (stage 0, before the search), `shots/mid_1280.jpg` (mid-search), `shots/ambiguous_1280.jpg` (stage 2), `shots/after_1280.jpg` (stage 4, After, before the misses are shown), `shots/end_1280.jpg` and `shots/end_1440.jpg` (stage 4, misses shown). No console errors at 1280 or 1440 by 900. Live flow checked: the search reached Ambiguous, Look closer ran the cards, and the tray line read "Investigator: 30 looked at, 23 cleared, 2 rings found, 0 false alarms".
